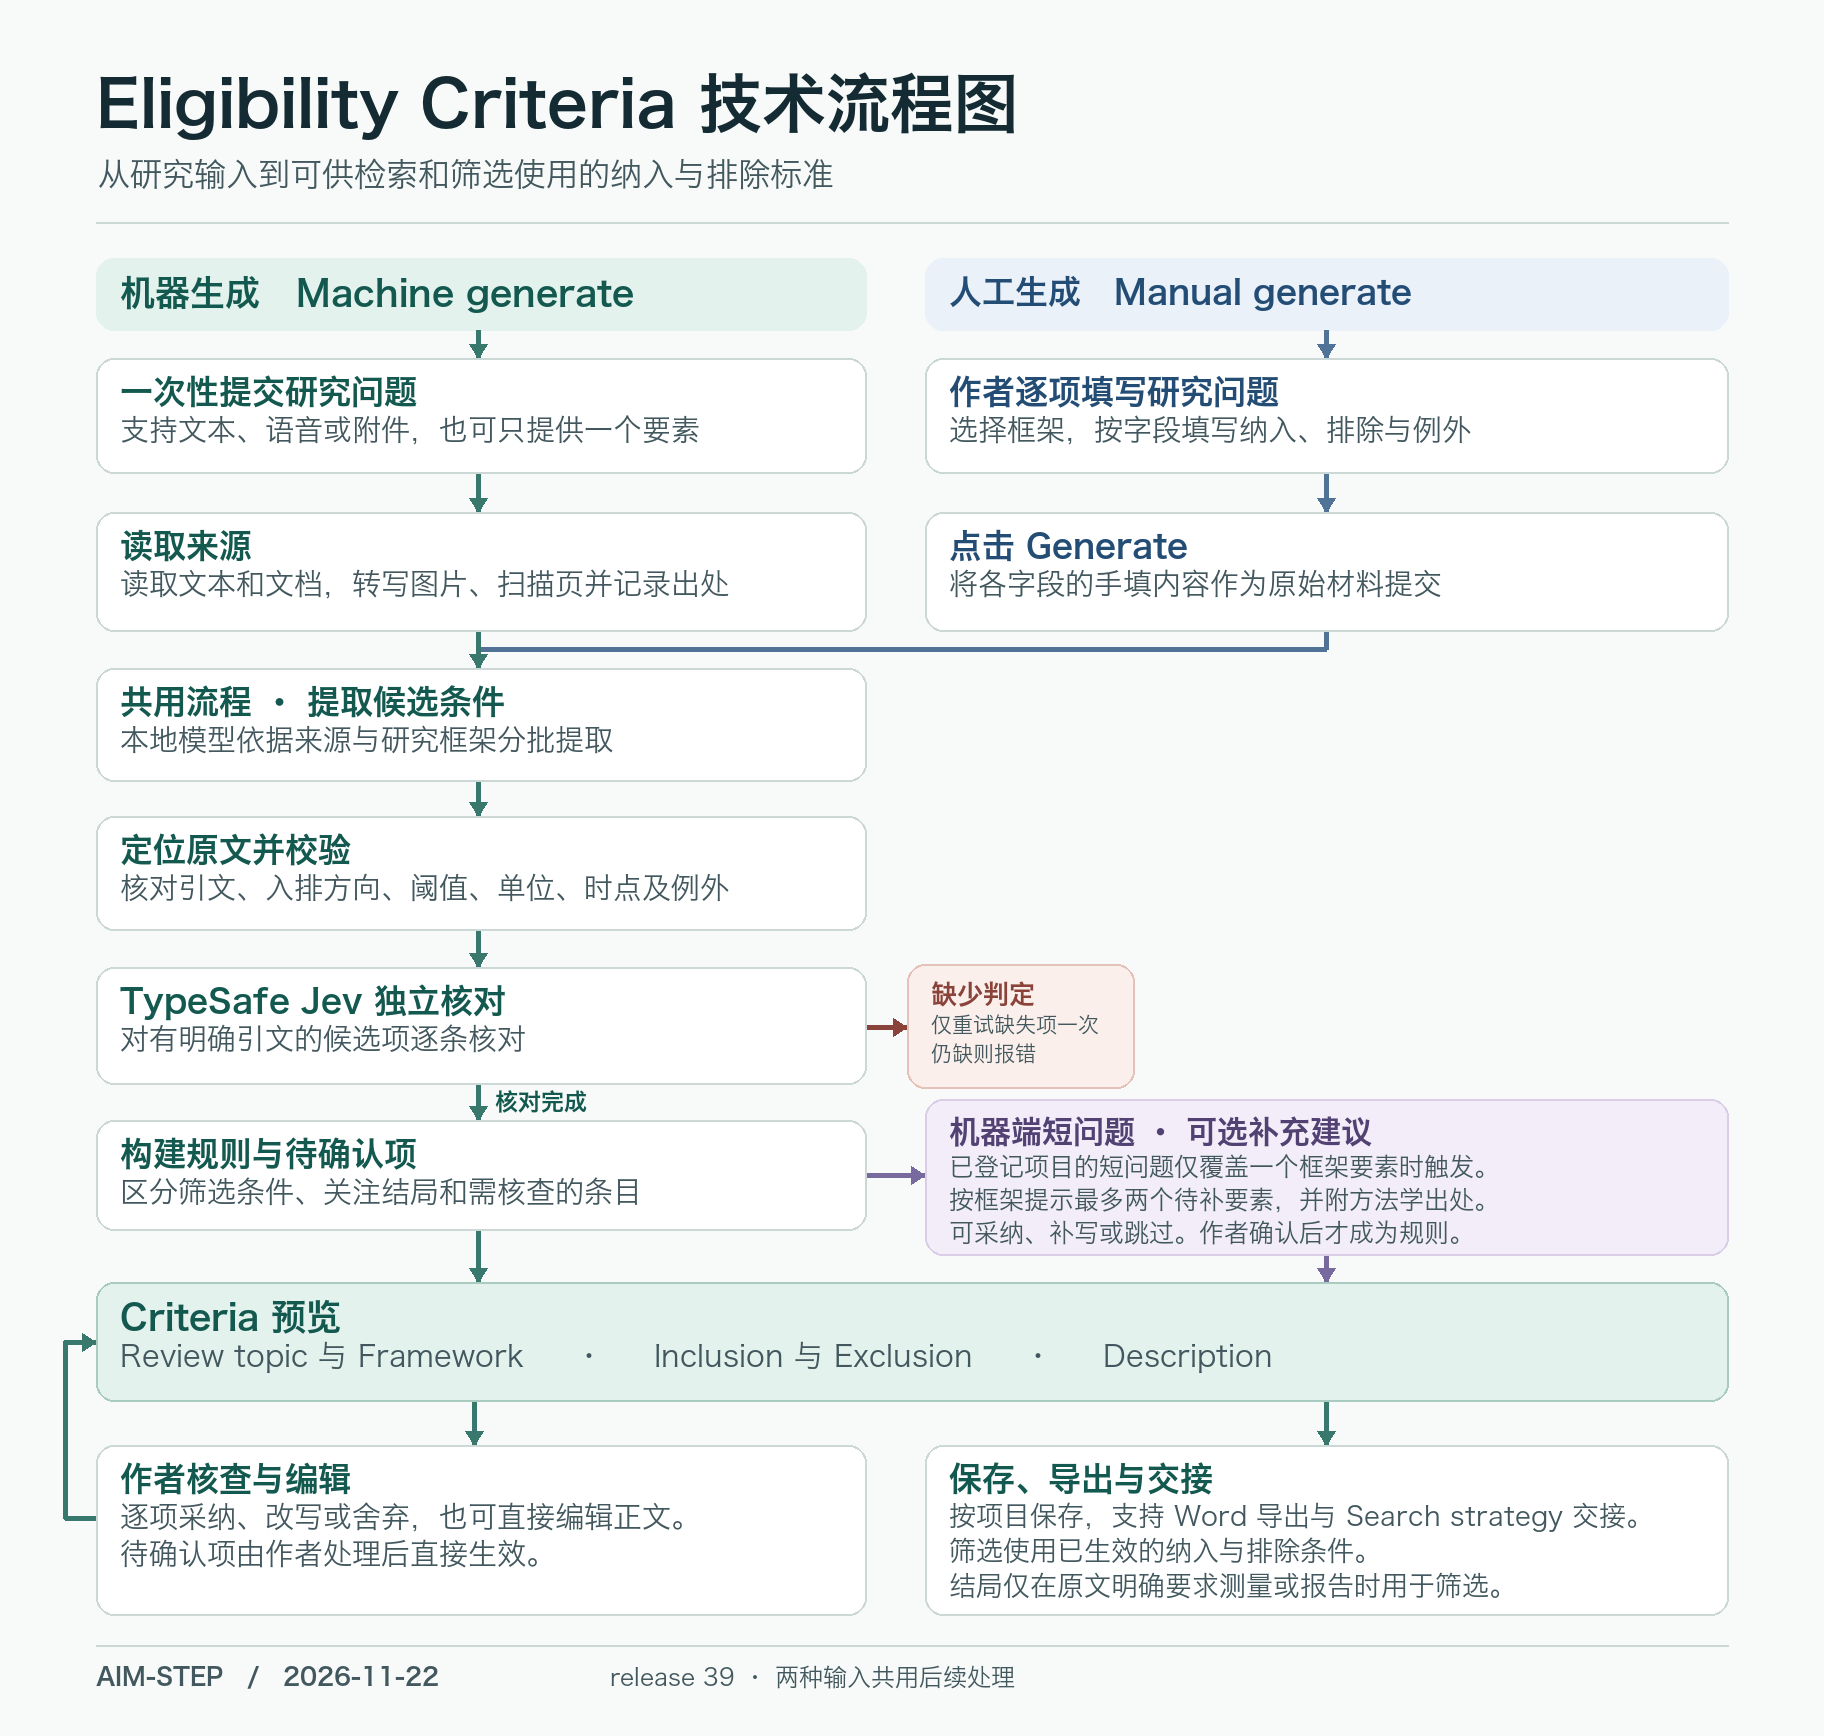
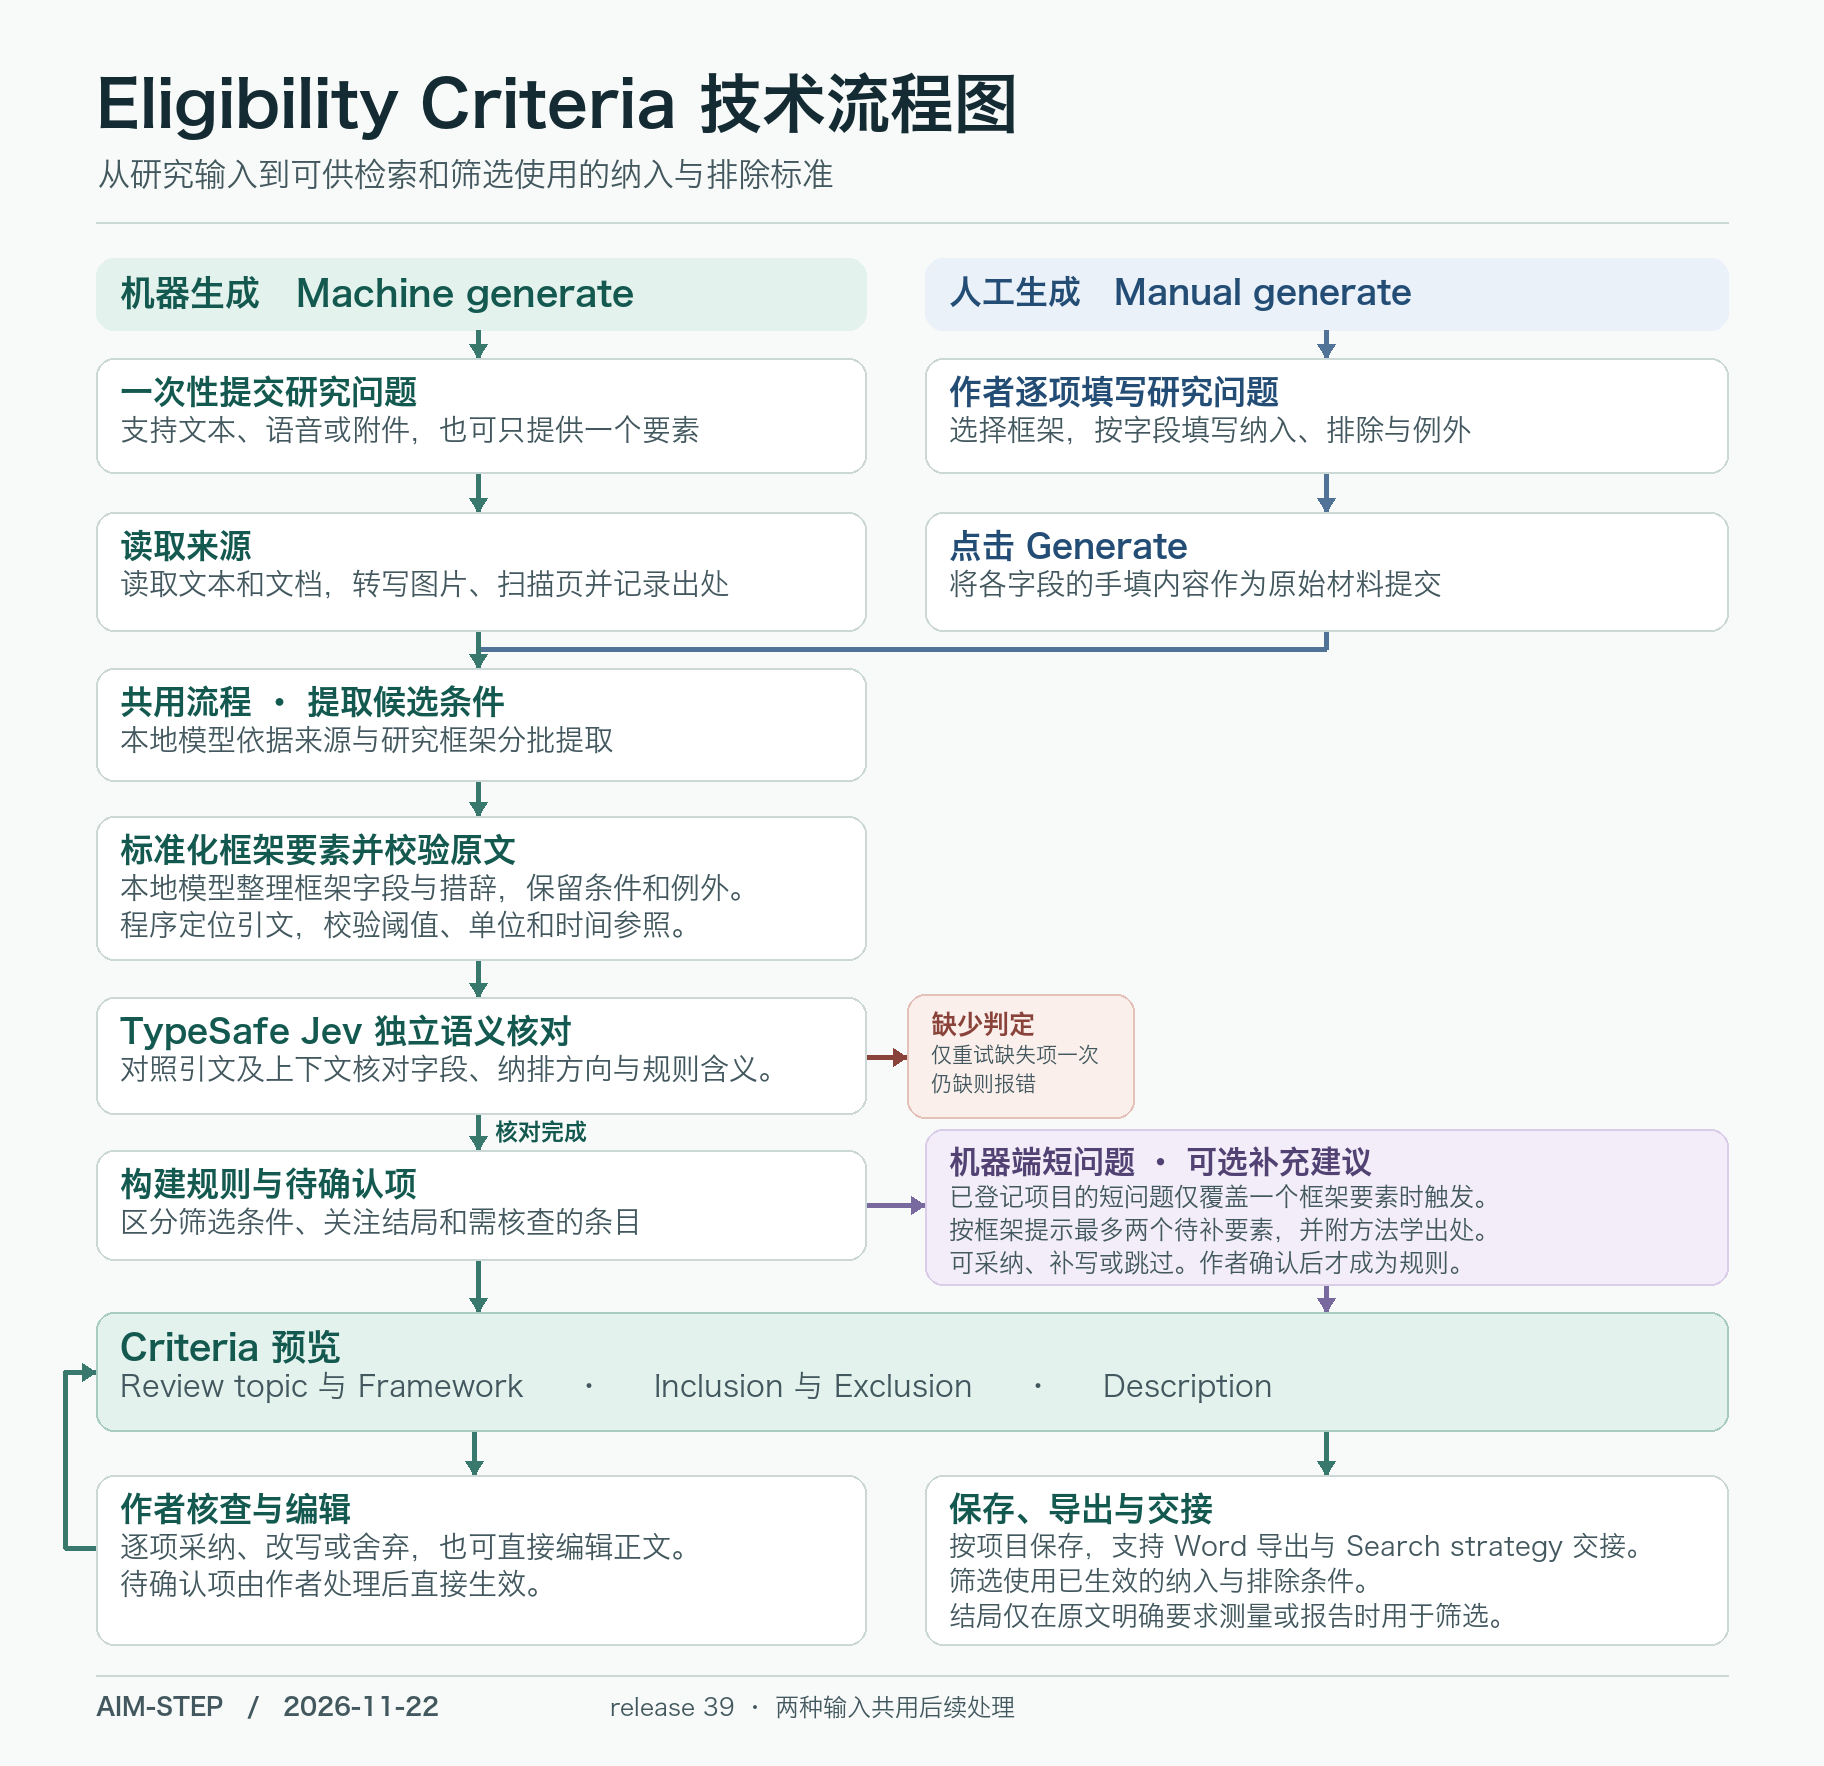
Clarify eligibility normalization and source review in workflow

diff --git a/technical-roadmaps/eligibility-criteria/2026-11-22/sources/workflow.py b/technical-roadmaps/eligibility-criteria/2026-11-22/sources/workflow.py
@@ -29,7 +29,7 @@ def font(size, bold=False):
 
 
 def render(output):
-    image = Image.new('RGB', (1824, 1736), '#f7faf8')
+    image = Image.new('RGB', (1824, 1766), '#f7faf8')
     draw = ImageDraw.Draw(image)
 
     def text(x, y, value, size, color=INK, *, bold=False, max_width=None):
@@ -68,30 +68,33 @@ def render(output):
          border=BLUE_PALE, accent=BLUE, title_size=33)
 
     for start, end in [(330, 358), (473, 512), (781, 816),
-                       (930, 967), (1084, 1120), (1230, 1282)]:
+                       (960, 997), (1114, 1150), (1260, 1312)]:
         arrow([(478, start), (478, end)])
     draw.line([(1326, 631), (1326, 649), (478, 649)], fill=BLUE_LINE, width=5, joint='curve')
     arrow([(478, 631), (478, 668)])
-    arrow([(866, 1027), (907, 1027)], ERROR)
-    arrow([(866, 1175), (925, 1175)], ADVICE_LINE)
-    arrow([(1326, 1255), (1326, 1282)], ADVICE_LINE)
+    arrow([(866, 1057), (907, 1057)], ERROR)
+    arrow([(866, 1205), (925, 1205)], ADVICE_LINE)
+    arrow([(1326, 1285), (1326, 1312)], ADVICE_LINE)
     for start, end in [(330, 358), (473, 512)]:
         arrow([(1326, start), (1326, end)], BLUE_LINE)
-    arrow([(474, 1401), (474, 1445)])
-    arrow([(1326, 1401), (1326, 1445)])
-    arrow([(96, 1518), (65, 1518), (65, 1342), (96, 1342)])
+    arrow([(474, 1431), (474, 1475)])
+    arrow([(1326, 1431), (1326, 1475)])
+    arrow([(96, 1548), (65, 1548), (65, 1372), (96, 1372)])
 
     card(96, 358, 770, 115, '一次性提交研究问题', ('支持文本、语音或附件，也可只提供一个要素',))
     card(96, 512, 770, 119, '读取来源', ('读取文本和文档，转写图片、扫描页并记录出处',))
     card(96, 668, 770, 113, '共用流程 · 提取候选条件', ('本地模型依据来源与研究框架分批提取',))
-    card(96, 816, 770, 114, '定位原文并校验', ('核对引文、入排方向、阈值、单位、时点及例外',))
-    card(96, 967, 770, 117, 'TypeSafe Jev 独立核对', ('对有明确引文的候选项逐条核对',))
-    card(907, 964, 227, 124, '缺少判定', ('仅重试缺失项一次', '仍缺则报错'),
+    card(96, 816, 770, 144, '标准化框架要素并校验原文',
+         ('本地模型整理框架字段与措辞，保留条件和例外。',
+          '程序定位引文，校验阈值、单位和时间参照。'))
+    card(96, 997, 770, 117, 'TypeSafe Jev 独立语义核对',
+         ('对照引文及上下文核对字段、纳排方向与规则含义。',))
+    card(907, 994, 227, 124, '缺少判定', ('仅重试缺失项一次', '仍缺则报错'),
          fill=ERROR_PALE, border='#e4c2ba', accent=ERROR, title_size=26, body_size=21)
-    text(495, 1090, '核对完成', 23, TEAL, bold=True)
-    card(96, 1120, 770, 110, '构建规则与待确认项', ('区分筛选条件、关注结局和需核查的条目',))
+    text(495, 1120, '核对完成', 23, TEAL, bold=True)
+    card(96, 1150, 770, 110, '构建规则与待确认项', ('区分筛选条件、关注结局和需核查的条目',))
 
-    card(925, 1099, 803, 156, '机器端短问题 · 可选补充建议',
+    card(925, 1129, 803, 156, '机器端短问题 · 可选补充建议',
          ('已登记项目的短问题仅覆盖一个框架要素时触发。',
           '按框架提示最多两个待补要素，并附方法学出处。',
           '可采纳、补写或跳过。作者确认后才成为规则。'),
@@ -100,21 +103,21 @@ def render(output):
     card(925, 358, 803, 115, '作者逐项填写研究问题', ('选择框架，按字段填写纳入、排除与例外',), accent=BLUE)
     card(925, 512, 803, 119, '点击 Generate', ('将各字段的手填内容作为原始材料提交',), accent=BLUE)
 
-    card(96, 1282, 1632, 119, 'Criteria 预览',
+    card(96, 1312, 1632, 119, 'Criteria 预览',
          ('Review topic 与 Framework     ·     Inclusion 与 Exclusion     ·     Description',),
          fill=TEAL_PALE, border='#aacbc0', title_size=35, body_size=30)
-    card(96, 1445, 770, 170, '作者核查与编辑',
+    card(96, 1475, 770, 170, '作者核查与编辑',
          ('逐项采纳、改写或舍弃，也可直接编辑正文。',
           '待确认项由作者处理后直接生效。'))
-    card(925, 1445, 803, 170, '保存、导出与交接',
+    card(925, 1475, 803, 170, '保存、导出与交接',
          ('按项目保存，支持 Word 导出与 Search strategy 交接。',
           '筛选使用已生效的纳入与排除条件。',
           '结局仅在原文明确要求测量或报告时用于筛选。'),
          body_size=27)
 
-    draw.line((96, 1645, 1728, 1645), fill=RULE, width=2)
-    text(96, 1665, 'AIM-STEP   /   2026-11-22', 24, MUTED, bold=True)
-    text(610, 1665, 'release 39 · 两种输入共用后续处理', 24, MUTED,
+    draw.line((96, 1675, 1728, 1675), fill=RULE, width=2)
+    text(96, 1695, 'AIM-STEP   /   2026-11-22', 24, MUTED, bold=True)
+    text(610, 1695, 'release 39 · 两种输入共用后续处理', 24, MUTED,
          max_width=1118)
 
     output.parent.mkdir(parents=True, exist_ok=True)

diff --git a/technical-roadmaps/eligibility-criteria/2026-11-22/README.md b/technical-roadmaps/eligibility-criteria/2026-11-22/README.md
@@ -4,7 +4,9 @@
 
 [打开高清 PNG](figures/eligibility-workflow.png) · [制图源码](sources/workflow.py)
 
-本图对应 `20261122-criteria-release-39`。机器生成接收一次性提交的完整研究问题。人工生成保留作者选定的框架及逐项填写的纳入、排除和例外。输入准备完成后，两种方式共用候选提取、原文校验、TypeSafe Jev 核对与标准构建流程。
+本图对应 `20261122-criteria-release-39`。机器生成接收一次性提交的研究问题。人工生成保留作者选定的框架及逐项填写的纳入、排除和例外。输入准备完成后，两种方式共用候选提取、框架要素标准化、原文校验、TypeSafe Jev 核对与规则构建流程。
+
+本地模型将候选条件归入所选框架的字段并给出规范措辞。程序把引文对回原文，比较阈值、等价单位、时间参照，并检查已明确写出的例外是否保留。TypeSafe Jev 对有明确引文的候选条件进行独立语义核对，判断对应字段、纳排方向及规范化后的规则含义是否得到原文支持。
 
 对符合条件的已登记项目，机器生成收到只覆盖一个框架要素的短问题时，可在 **Criteria** 预览中显示最多两项带方法学出处的补充建议。作者可以采纳、补写或跳过。经作者确认的内容才会成为筛选规则。当前短问题识别针对机器端的单要素短文本，人工表单提交时附加的分段标题会使它无法匹配这一识别条件。
 
